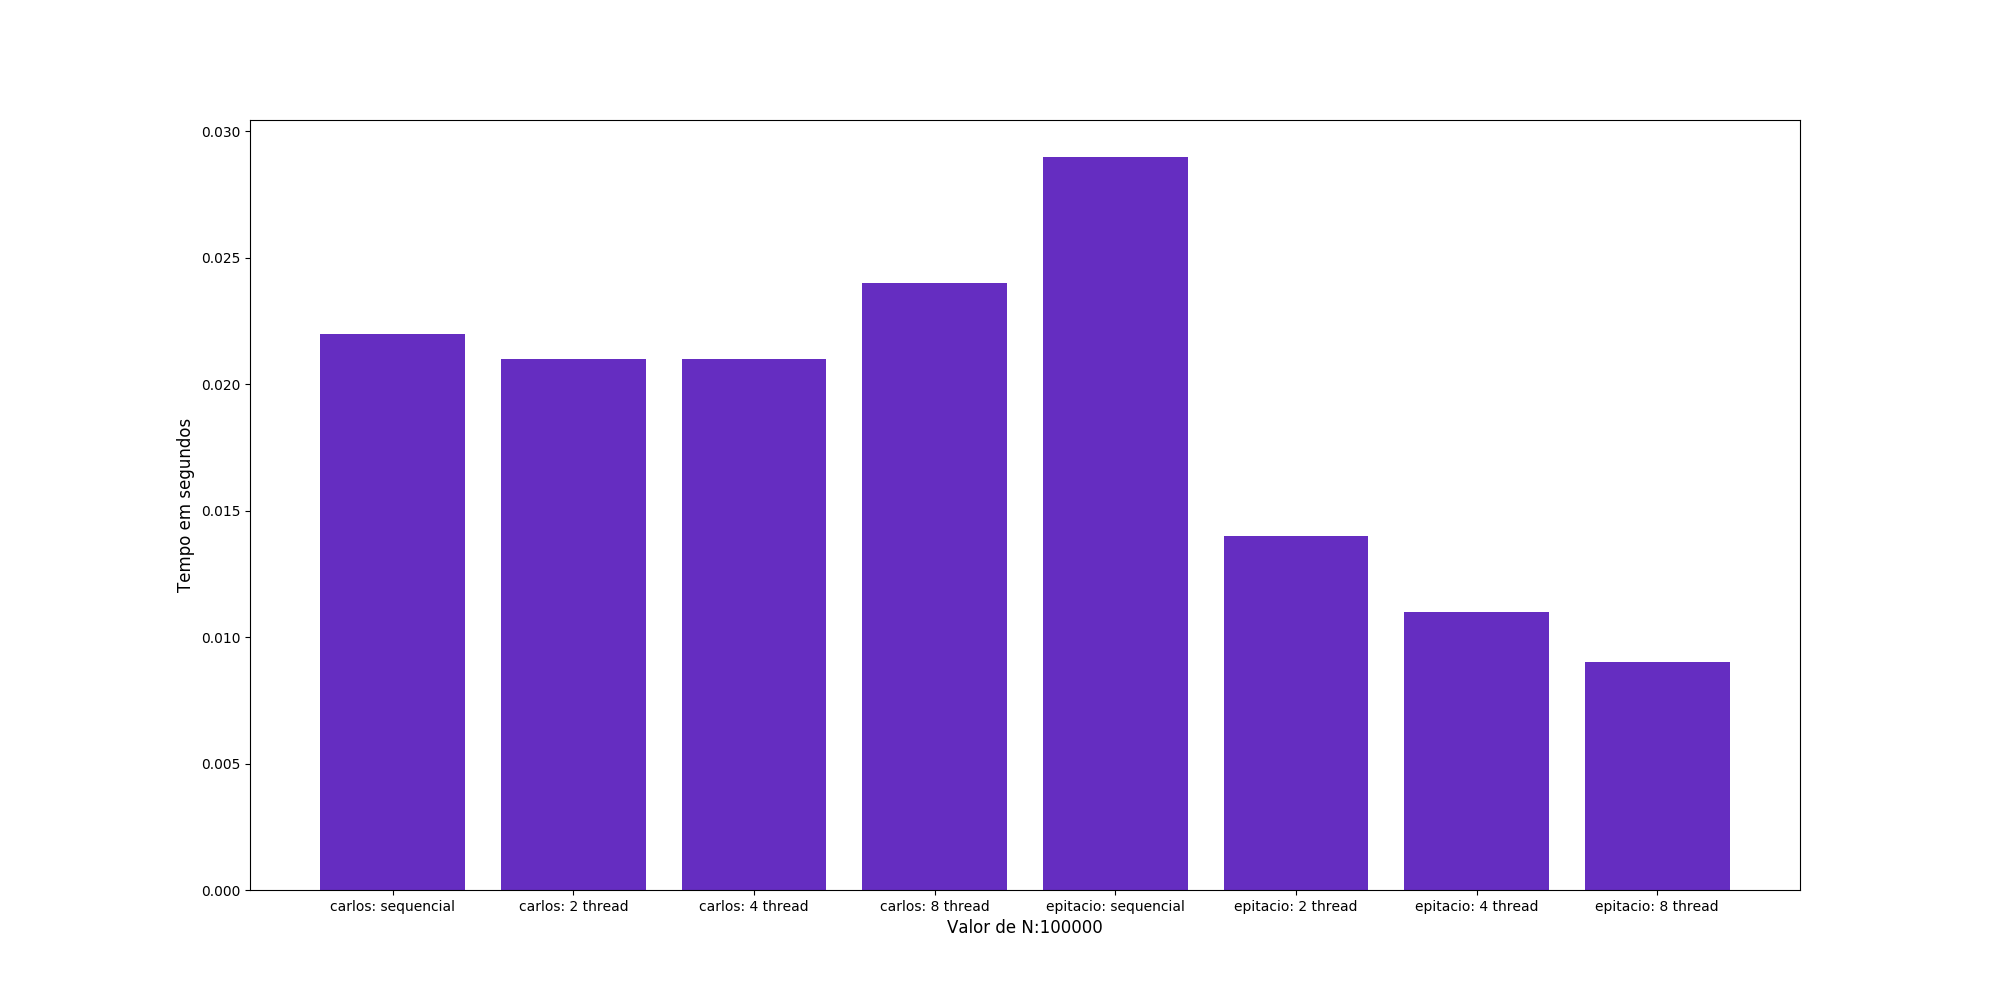
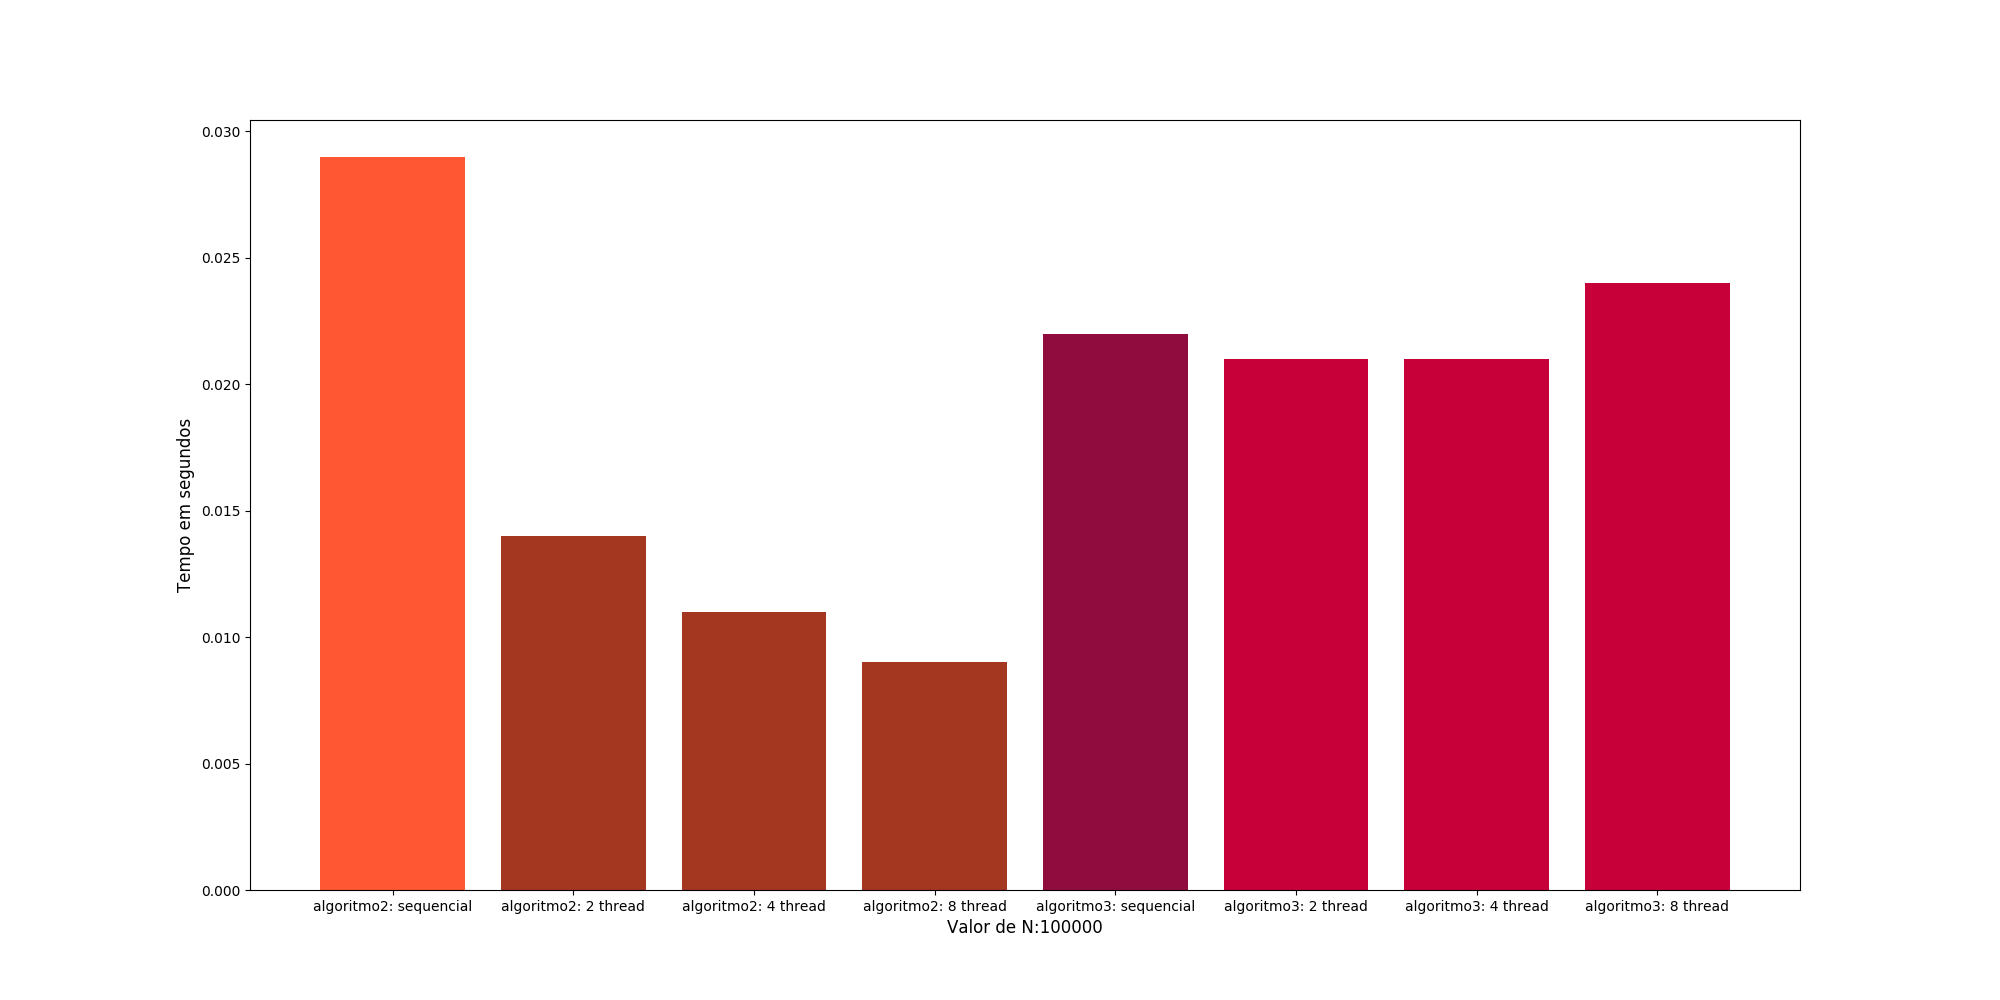
Alterações nas imagens do benchmark

diff --git a/terceiro-trabalho/benchmark.py b/terceiro-trabalho/benchmark.py
@@ -22,5 +22,5 @@ for name, group in grouped:
     #formata o plot
     plt.ylabel("Tempo em segundos", fontsize=12)
     plt.xlabel(xlabel, fontsize=12)
-    plt.bar(group['nome'], group['tempo'], color="#652dc1")
+    plt.bar(group['nome'], group['tempo'], color=("#ff5733", "#a43720", "#a43720", "#a43720", "#900C3F", "#C70039", "#C70039", "#C70039"))
     plt.savefig(xlabel)
